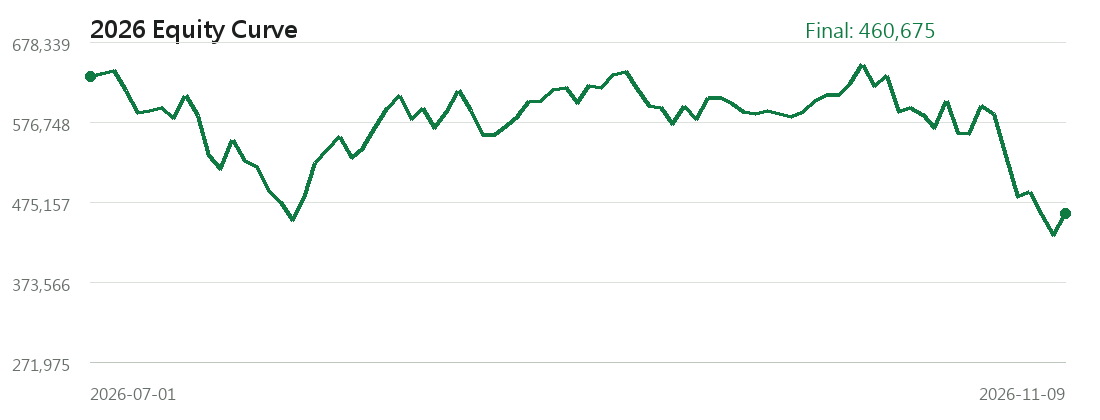
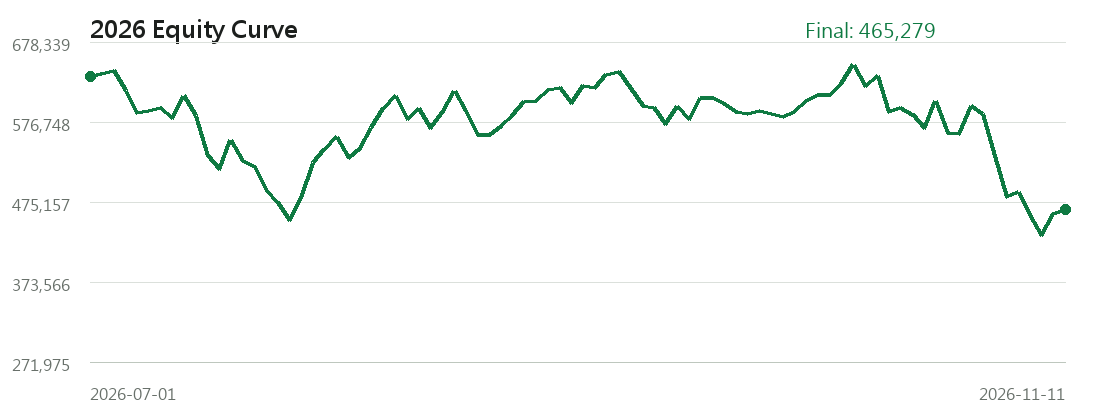
Update dashboard data

diff --git a/data.js b/data.js
@@ -1,5 +1,5 @@
 window.PUBLIC_FOLLOW_DATA = {
-  "generated_at": "2026-11-09T18:34:38.841433+08:00",
+  "generated_at": "2026-11-11T18:34:04.756441+08:00",
   "public_note": "Static follow dashboard only. Backend code, database, cache, and parameter search files are local-only.",
   "assumptions": {
     "initial_capital": 300000.0,
@@ -8,20 +8,20 @@ window.PUBLIC_FOLLOW_DATA = {
     "position_sizing": "Capital is split across up to 5 positions with integer-share sizing."
   },
   "data_status": {
-    "signal_date": "2026-11-09",
-    "latest_chip_date": "2026-11-09",
-    "latest_price_date": "2026-11-09",
-    "candidate_count": 0,
+    "signal_date": "2026-11-11",
+    "latest_chip_date": "2026-11-11",
+    "latest_price_date": "2026-11-11",
+    "candidate_count": 2,
     "warning": null
   },
   "metrics": {
     "initial_capital": 300000.0,
-    "final_value": 460675.1597457886,
+    "final_value": 465279.2620330811,
     "cash": -11914.84025421139,
-    "total_return_pct": 53.558386581929526,
-    "annualized_return_pct": 69.4033630197419,
+    "total_return_pct": 55.093087344360356,
+    "annualized_return_pct": 70.86889608077118,
     "start_date": "2026-01-16",
-    "end_date": "2026-11-09",
+    "end_date": "2026-11-11",
     "closed_trade_count": 96,
     "entry_count": 97,
     "open_position_count": 5,
@@ -528,6 +528,12 @@ window.PUBLIC_FOLLOW_DATA = {
       "equity": 460675.1597457886,
       "cash": -11914.84025421139,
       "position_count": 5
+    },
+    {
+      "date": "2026-11-11",
+      "equity": 465279.2620330811,
+      "cash": -11914.84025421139,
+      "position_count": 5
     }
   ],
   "holdings": [
@@ -537,11 +543,11 @@ window.PUBLIC_FOLLOW_DATA = {
       "quantity": 215,
       "entry_date": "2026-11-04",
       "entry_price": 430.0,
-      "current_price_date": "2026-11-09",
-      "current_price": 460.0,
-      "market_value": 98900.0,
-      "unrealized_return_pct": 6.976744186046502,
-      "holding_days": 5,
+      "current_price_date": "2026-11-11",
+      "current_price": 443.0,
+      "market_value": 95245.0,
+      "unrealized_return_pct": 3.023255813953485,
+      "holding_days": 7,
       "concept_tag_names": [
         "證券券商",
         "投資控股",
@@ -555,11 +561,11 @@ window.PUBLIC_FOLLOW_DATA = {
       "quantity": 357,
       "entry_date": "2026-11-06",
       "entry_price": 247.0,
-      "current_price_date": "2026-11-09",
-      "current_price": 257.5,
-      "market_value": 91927.5,
-      "unrealized_return_pct": 4.251012145748989,
-      "holding_days": 3,
+      "current_price_date": "2026-11-11",
+      "current_price": 265.5,
+      "market_value": 94783.5,
+      "unrealized_return_pct": 7.489878542510131,
+      "holding_days": 5,
       "concept_tag_names": [
         "儲能",
         "充電樁",
@@ -580,11 +586,11 @@ window.PUBLIC_FOLLOW_DATA = {
       "quantity": 256,
       "entry_date": "2026-11-06",
       "entry_price": 322.5,
-      "current_price_date": "2026-11-09",
-      "current_price": 377.5,
-      "market_value": 96640.0,
-      "unrealized_return_pct": 17.054263565891482,
-      "holding_days": 3,
+      "current_price_date": "2026-11-11",
+      "current_price": 372.0,
+      "market_value": 95232.0,
+      "unrealized_return_pct": 15.348837209302335,
+      "holding_days": 5,
       "concept_tag_names": [
         "精密沖壓/金屬件",
         "晶圓製程設備零組件",
@@ -601,11 +607,11 @@ window.PUBLIC_FOLLOW_DATA = {
       "quantity": 224,
       "entry_date": "2026-11-09",
       "entry_price": 390.5,
-      "current_price_date": "2026-11-09",
-      "current_price": 401.5,
-      "market_value": 89936.0,
-      "unrealized_return_pct": 2.8169014084507005,
-      "holding_days": 0,
+      "current_price_date": "2026-11-11",
+      "current_price": 412.5,
+      "market_value": 92400.0,
+      "unrealized_return_pct": 5.633802816901401,
+      "holding_days": 2,
       "concept_tag_names": [
         "證券券商",
         "RF前端/功率放大器",
@@ -622,11 +628,11 @@ window.PUBLIC_FOLLOW_DATA = {
       "quantity": 1499,
       "entry_date": "2026-11-09",
       "entry_price": 59.099998474121094,
-      "current_price_date": "2026-11-09",
-      "current_price": 63.5,
-      "market_value": 95186.5,
-      "unrealized_return_pct": 7.445011234316001,
-      "holding_days": 0,
+      "current_price_date": "2026-11-11",
+      "current_price": 66.4000015258789,
+      "market_value": 99533.60228729248,
+      "unrealized_return_pct": 12.351951337112755,
+      "holding_days": 2,
       "concept_tag_names": [
         "封測",
         "導線架/封裝材料",
@@ -643,17 +649,162 @@ window.PUBLIC_FOLLOW_DATA = {
     }
   ],
   "trade_plan": {
-    "sell_orders": [],
-    "buy_orders": [],
-    "total_sell_amount": 0,
-    "total_buy_amount": 0,
+    "sell_orders": [
+      {
+        "stock_id": "6548",
+        "company_name": "長科*",
+        "quantity": 1499,
+        "price": 66.4000015258789,
+        "amount": 99533.60228729248,
+        "concept_tag_names": [
+          "封測",
+          "導線架/封裝材料",
+          "證券券商",
+          "塑膠原料/樹脂",
+          "工程營造",
+          "投資控股",
+          "無塵室/廠務工程",
+          "特用化學/材料",
+          "矽晶圓",
+          "租賃金融",
+          "半導體IP/設計服務"
+        ]
+      },
+      {
+        "stock_id": "7795",
+        "company_name": "長廣",
+        "quantity": 256,
+        "price": 372.0,
+        "amount": 95232.0,
+        "concept_tag_names": [
+          "精密沖壓/金屬件",
+          "晶圓製程設備零組件",
+          "證券券商",
+          "工具機/自動化設備",
+          "工具機零組件",
+          "投資控股",
+          "檢測設備/服務"
+        ]
+      }
+    ],
+    "buy_orders": [
+      {
+        "stock_id": "3081",
+        "company_name": "聯亞",
+        "quantity": 42,
+        "price": 2215.0,
+        "amount": 93030.0,
+        "action": "SELL_WEAKEST_BUY_CANDIDATE",
+        "entry_date": null,
+        "concept_tag_names": [
+          "光通訊模組",
+          "矽光子/CPO",
+          "證券券商",
+          "塑膠原料/樹脂",
+          "投資控股",
+          "網安/網路設備"
+        ]
+      },
+      {
+        "stock_id": "3605",
+        "company_name": "宏致",
+        "quantity": 681,
+        "price": 136.5,
+        "amount": 92956.5,
+        "action": "SELL_WEAKEST_BUY_CANDIDATE",
+        "entry_date": null,
+        "concept_tag_names": [
+          "連接器/線束",
+          "證券券商",
+          "工具機零組件",
+          "投資控股",
+          "晶圓製程設備零組件",
+          "精密沖壓/金屬件"
+        ]
+      }
+    ],
+    "total_sell_amount": 194765.60228729248,
+    "total_buy_amount": 185986.5,
     "starting_cash": -11914.84025421139,
-    "net_cash_change": 0,
-    "cash_after_plan": -11914.84025421139,
-    "needs_extra_cash": 11914.84025421139,
+    "net_cash_change": 8779.10228729248,
+    "cash_after_plan": -3135.7379669189104,
+    "needs_extra_cash": 3135.7379669189104,
     "remaining_cash": 0.0
   },
-  "today_candidates": [],
+  "today_candidates": [
+    {
+      "rank": 1,
+      "signal_date": "2026-11-11",
+      "stock_id": "3081",
+      "company_name": "聯亞",
+      "action": "SELL_WEAKEST_BUY_CANDIDATE",
+      "reference_price": 2215.0,
+      "target_amount": 93055.85240661622,
+      "suggested_quantity": 42,
+      "buy_amount": 93030.0,
+      "sell_stock_id": "6548",
+      "sell_company_name": "長科*",
+      "sell_quantity": 1499,
+      "sell_current_price": 66.4000015258789,
+      "sell_market_value": 99533.60228729248,
+      "concept_tag_names": [
+        "光通訊模組",
+        "矽光子/CPO",
+        "證券券商",
+        "塑膠原料/樹脂",
+        "投資控股",
+        "網安/網路設備"
+      ],
+      "sell_concept_tag_names": [
+        "封測",
+        "導線架/封裝材料",
+        "證券券商",
+        "塑膠原料/樹脂",
+        "工程營造",
+        "投資控股",
+        "無塵室/廠務工程",
+        "特用化學/材料",
+        "矽晶圓",
+        "租賃金融",
+        "半導體IP/設計服務"
+      ],
+      "action_text": "換股買進"
+    },
+    {
+      "rank": 2,
+      "signal_date": "2026-11-11",
+      "stock_id": "3605",
+      "company_name": "宏致",
+      "action": "SELL_WEAKEST_BUY_CANDIDATE",
+      "reference_price": 136.5,
+      "target_amount": 93055.85240661622,
+      "suggested_quantity": 681,
+      "buy_amount": 92956.5,
+      "sell_stock_id": "7795",
+      "sell_company_name": "長廣",
+      "sell_quantity": 256,
+      "sell_current_price": 372.0,
+      "sell_market_value": 95232.0,
+      "concept_tag_names": [
+        "連接器/線束",
+        "證券券商",
+        "工具機零組件",
+        "投資控股",
+        "晶圓製程設備零組件",
+        "精密沖壓/金屬件"
+      ],
+      "sell_concept_tag_names": [
+        "精密沖壓/金屬件",
+        "晶圓製程設備零組件",
+        "證券券商",
+        "工具機/自動化設備",
+        "工具機零組件",
+        "投資控股",
+        "檢測設備/服務"
+      ],
+      "action_text": "換股買進"
+    }
+  ],
   "recent_entries": [
     {
       "stock_id": "4966",
